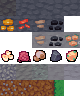
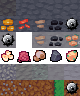
Added mines and astronaut in Mining game

Changed region(s): [[0.8, 0.8125, 1.0, 1.0], [0.8, 0.1562, 1.0, 0.3438], [0.0, 0.3125, 0.2, 0.5]]

diff --git a/mining_game/collisions.py b/mining_game/collisions.py
@@ -4,6 +4,9 @@ from random import random, randint
 
 bt = 20         # size between two tiles up and down
 part_num = 15   # number of particles created when a block is broken
+dirt_sound = 5
+stone_sound = 5
+explosion_sound = 0.3
 
 def detect_collision(mousepos, level, particle_engine):
     for i, sprite in enumerate(level.terrain_sprites):
@@ -19,7 +22,9 @@ def detect_collision(mousepos, level, particle_engine):
                 break   # if tile is bedrock
 
             elif sprite.index == 28:
-                pygame.mixer.Sound("./mining_game/sounds/dirt.mp3").play()
+                dirt = pygame.mixer.Sound("./mining_game/sounds/dirt.mp3")
+                dirt.set_volume(dirt_sound)
+                dirt.play()
                 sprite.index = -1
                 sprite.image = pygame.Surface((0, 0))
                 particle_engine.create_particles(mousepos[0], mousepos[1], part_num, (143,92,51)) 
@@ -27,15 +32,35 @@ def detect_collision(mousepos, level, particle_engine):
                 break   # if tile is  dirt (only on the right edge)
 
             elif (level.terrain_sprites.sprites()[i+1].index == -1 or level.terrain_sprites.sprites()[i-1].index == -1 or level.terrain_sprites.sprites()[i+bt].index == -1  or level.terrain_sprites.sprites()[i-bt].index == -1):
-                if sprite.index in (25, 26, 27):
-                    pygame.mixer.Sound("./mining_game/sounds/dirt.mp3").play()
+                if sprite.index in (25, 26, 27, 29):
+                    dirt = pygame.mixer.Sound("./mining_game/sounds/dirt.mp3")
+                    dirt.set_volume(dirt_sound)
+                    dirt.play()
                     particle_engine.create_particles(mousepos[0], mousepos[1], part_num, (143,92,51))
                     if sprite.index in (25, 26): particle_engine.create_particles(mousepos[0], mousepos[1], 5, (126,119,128))
+                    elif sprite.index == 29: 
+                        exp = pygame.mixer.Sound("./mining_game/sounds/explosion.wav")
+                        exp.set_volume(explosion_sound)
+                        exp.play()
+                        particle_engine.create_particles(mousepos[0], mousepos[1], 5, (236, 28, 36), 1)
+                        particle_engine.create_particles(mousepos[0], mousepos[1], 5, (255, 136, 24), 1)
+                        particle_engine.create_particles(mousepos[0], mousepos[1], 5, (255, 229, 32), 1)
+                        particle_engine.create_particles(mousepos[0], mousepos[1], 5, (0, 0, 0), 1)
                 else:
-                    pygame.mixer.Sound("./mining_game/sounds/stone.mp3").play()
-                    if sprite.index in (12, 14, 20, 21, 22, 23, 24): particle_engine.create_particles(mousepos[0], mousepos[1], part_num, (135,133,145))
-                    elif sprite.index in (1, 2, 3, 4, 5, 6, 7, 8): particle_engine.create_particles(mousepos[0], mousepos[1], part_num, (61,64,78))
-                    if sprite.index in (7, 12, 14): particle_engine.create_particles(mousepos[0], mousepos[1], 5, (221,164,126))
+                    ston = pygame.mixer.Sound("./mining_game/sounds/stone.mp3")
+                    ston.set_volume(stone_sound)
+                    ston.play()
+                    if sprite.index in (12, 14, 20, 21, 22, 23, 24, 10): particle_engine.create_particles(mousepos[0], mousepos[1], part_num, (135,133,145))
+                    elif sprite.index in (1, 2, 3, 4, 5, 6, 7, 8, 9): particle_engine.create_particles(mousepos[0], mousepos[1], part_num, (61,64,78))
+                    if sprite.index in (10, 9): 
+                        exp = pygame.mixer.Sound("./mining_game/sounds/explosion.wav")
+                        exp.set_volume(explosion_sound)
+                        exp.play()
+                        particle_engine.create_particles(mousepos[0], mousepos[1], 5, (236, 28, 36), 1)
+                        particle_engine.create_particles(mousepos[0], mousepos[1], 5, (255, 136, 24), 1)
+                        particle_engine.create_particles(mousepos[0], mousepos[1], 5, (255, 229, 32), 1)
+                        particle_engine.create_particles(mousepos[0], mousepos[1], 5, (0, 0, 0), 1)
+                    elif sprite.index in (7, 12, 14): particle_engine.create_particles(mousepos[0], mousepos[1], 5, (221,164,126))
                     elif sprite.index == 8: particle_engine.create_particles(mousepos[0], mousepos[1], 5, (17,12,20))
                     elif sprite.index == 6: particle_engine.create_particles(mousepos[0], mousepos[1], 5, (227,85,60))
                     elif sprite.index == 5: particle_engine.create_particles(mousepos[0], mousepos[1], 5, (212,151,30))
@@ -117,7 +142,8 @@ def detect_blocks_left(level, screen, screen_size, particle_engine, anim):
             image_rect.center = (screen_size[0] // 2, screen_size[1] // 2)
             screen.blit(image, image_rect)
             color = (randint(0, 255), randint(0, 255), randint(0, 255))   # Particles
-            particle_engine.create_particles(image_rect.center[0], image_rect.center[1], 1, color, 2)
+            particle_engine.create_particles(image_rect.center[0], image_rect.center[1], 1, color, 1)
+            particle_engine.create_particles(image_rect.center[0], image_rect.center[1], 1, color, 1)
             font = pygame.font.Font(None, 36)                             # Text "Press space to continue"
             text = font.render("Press space to continue", True, (0, 0, 0))
             text_rect = text.get_rect()

diff --git a/mining_game/main.py b/mining_game/main.py
@@ -16,14 +16,14 @@ def mining_game(screen : pygame.Surface, screen_size : Tuple[int,int]) -> tuple:
     clock = pygame.time.Clock()
 
     music = pygame.mixer.music.load('./mining_game/sounds/BGM.mp3')
-    pygame.mixer.music.set_volume(0.4)   # set the volume to 40% otherwise we can't hear the sound effects
+    pygame.mixer.music.set_volume(0.6)   # set the volume to 40% otherwise we can't hear the sound effects
     music = pygame.mixer.music.play(-1)
 
     level = Level("./mining_game/bloc_pics/map.csv",screen)
 
     pygame.mouse.set_cursor((8, 8), (0, 0), (0, 0, 0, 0, 0, 0, 0, 0), (0, 0, 0, 0, 0, 0, 0, 0))   # hide the mouse cursor
-    pickaxe = Pickaxe(100, 100, 64, 64)
-    pickaxe.scale(2.0)   # make the pickaxe twice as big
+    pickaxe = Pickaxe(100, 100, 64, 64)   # 100 is the x and y position of the pickaxe, 64 is the width and height of the pickaxe
+    pickaxe.scale(1.4)   # make the pickaxe twice as big
 
     particle_engine = ParticleEngine(50)   # maximum of 50 particles on screen at once
 

diff --git a/mining_game/pickaxe.py b/mining_game/pickaxe.py
@@ -14,8 +14,7 @@ class Pickaxe:
         self.y = mouse_y
 
     def draw(self, screen):
-        offset = 4
-        screen.blit(self.image, (self.x - self.width / offset, self.y - self.height / offset))
+        screen.blit(self.image, (self.x - self.width / 10, self.y - self.height / 2.5))
 
     def scale(self, factor):
         old_width, old_height = self.image.get_size()

diff --git a/main.py b/main.py
@@ -1,7 +1,7 @@
 import pygame
 from player import Player
 from tilemap import Map,Tileset
-from gemmecatcher.gemmecatcher import gemmecatcher
+#from gemmecatcher.gemmecatcher import gemmecatcher
 from mining_game.main import mining_game
 #from tower_defense.main import Game as TowerDefense
 pygame.init()
